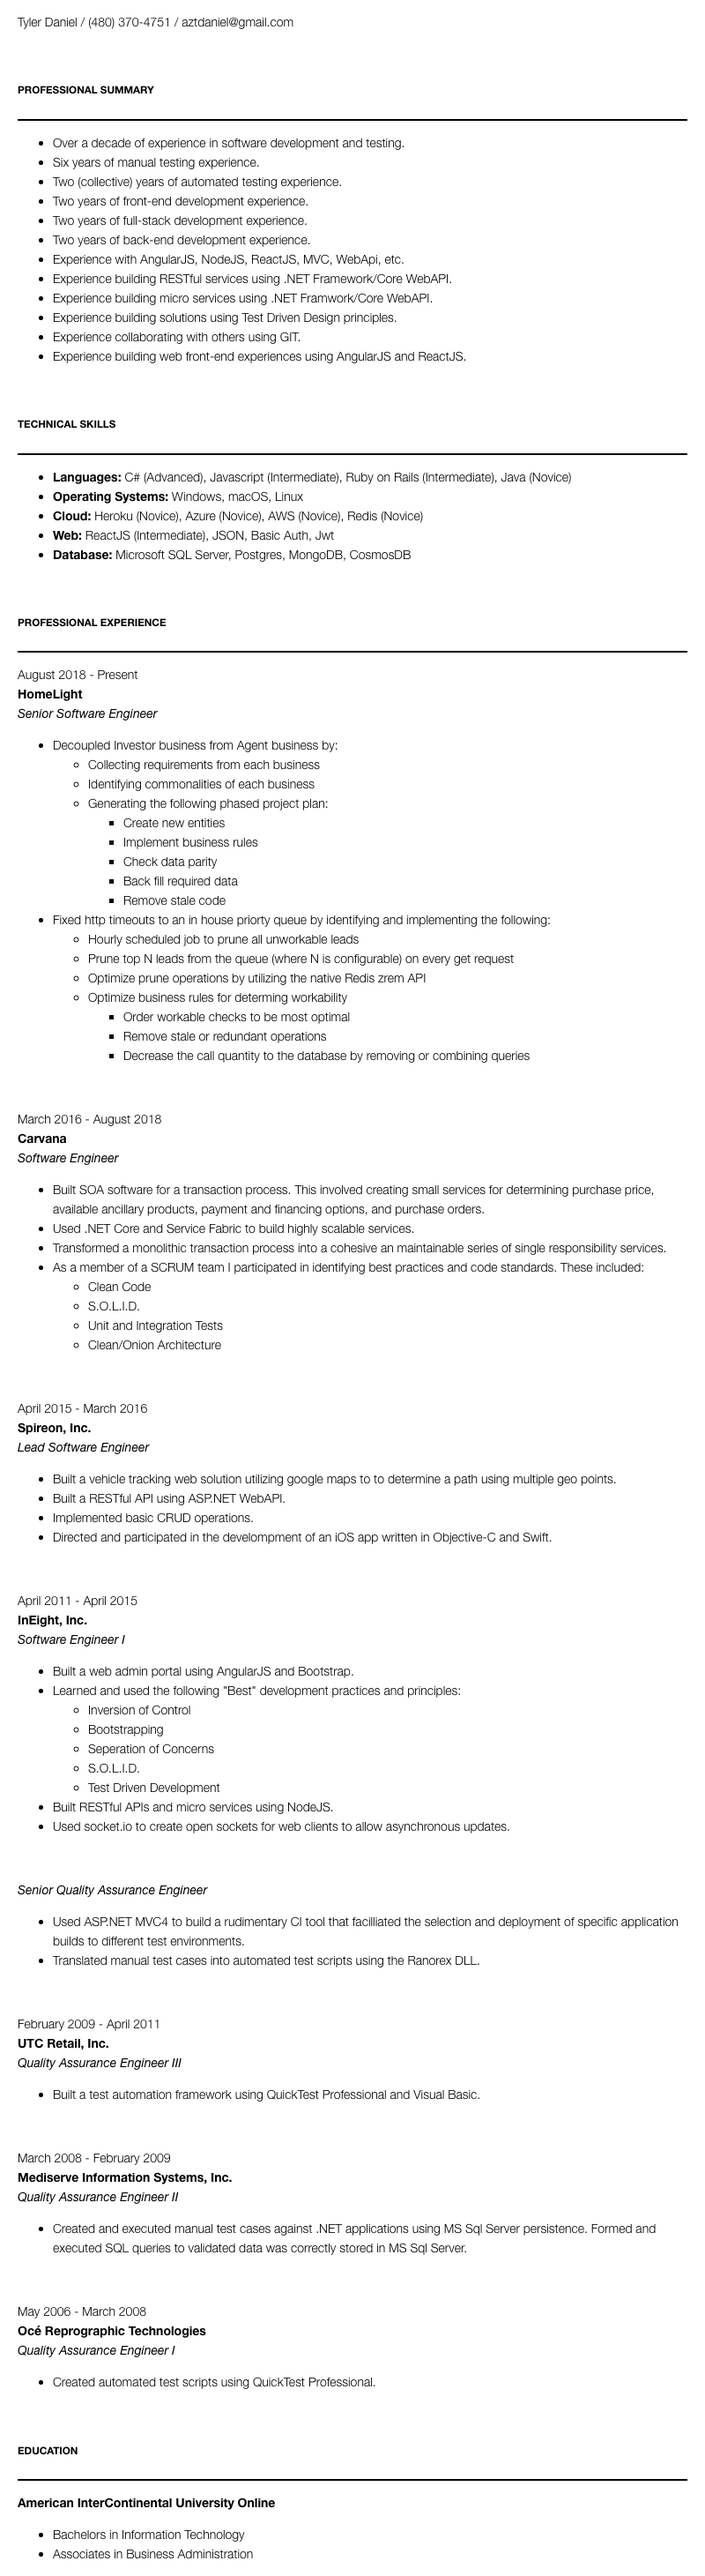
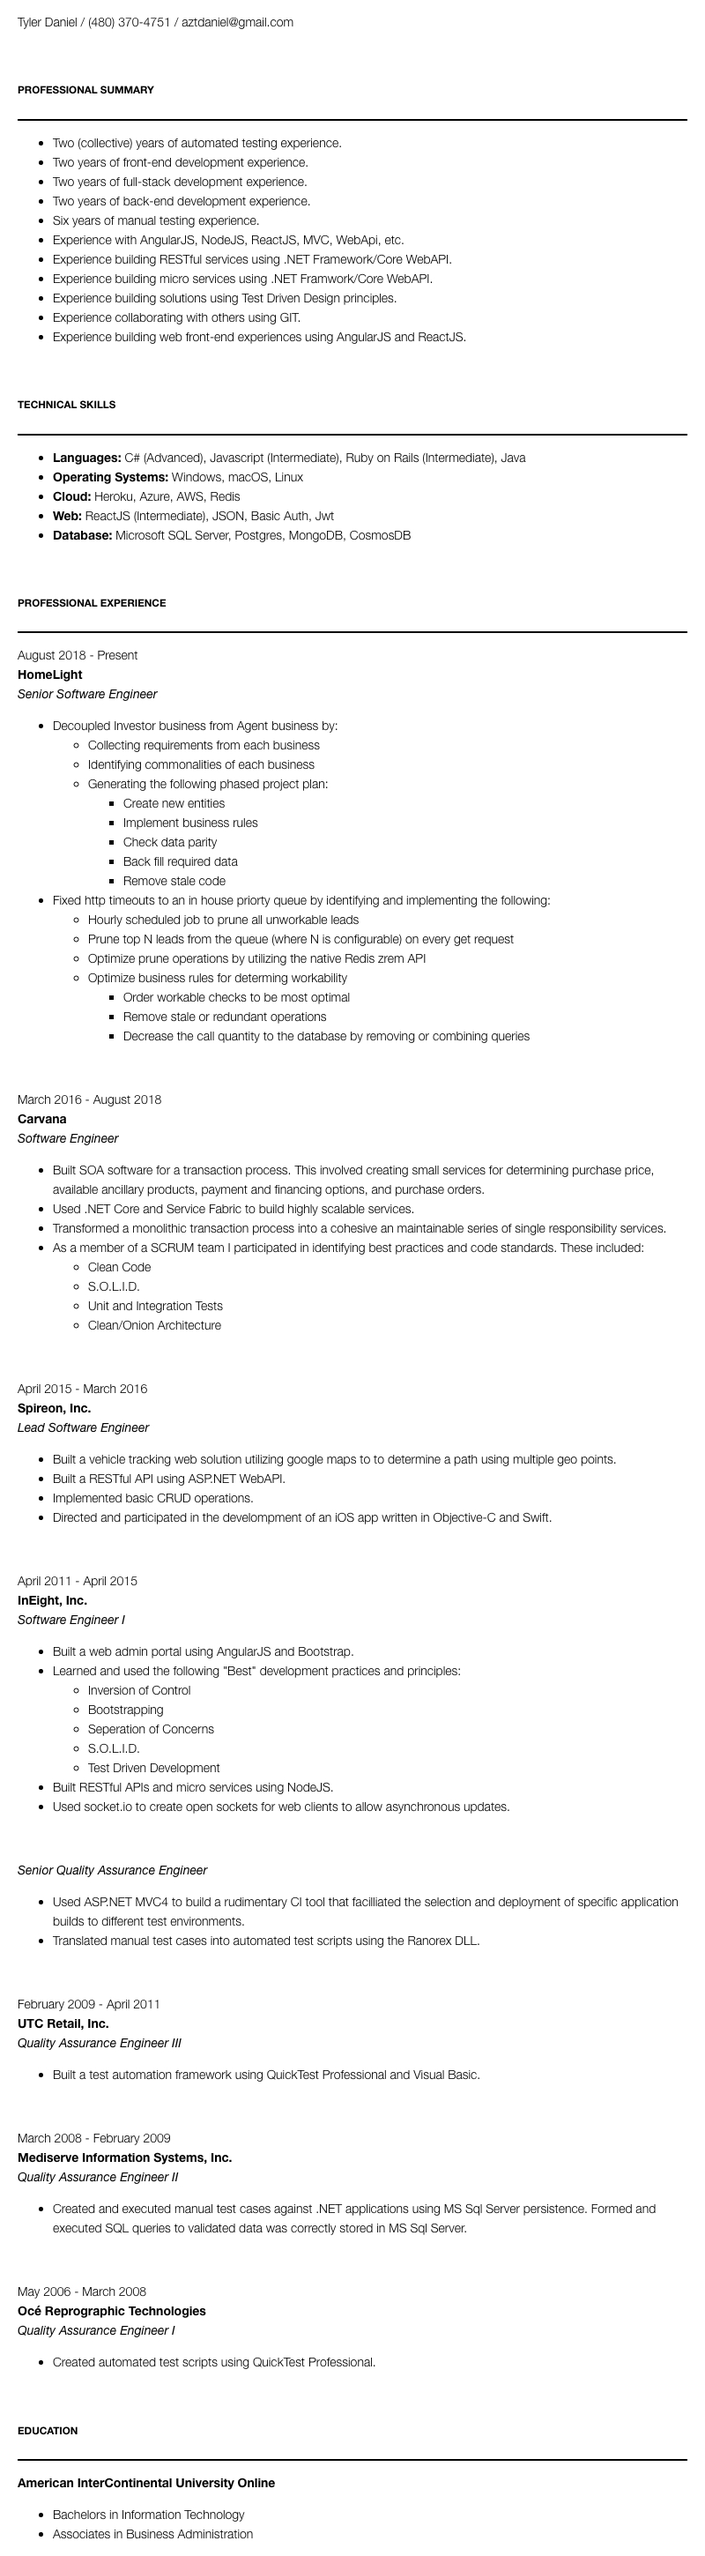
v4

diff --git a/resume.html b/resume.html
@@ -390,12 +390,11 @@ blockquote {
 <h5 id="professional-summary">PROFESSIONAL SUMMARY</h5>
 <hr>
 <ul>
-<li>Over a decade of experience in software development and testing.</li>
-<li>Six years of manual testing experience.</li>
 <li>Two (collective) years of automated testing experience.</li>
 <li>Two years of front-end development experience.</li>
 <li>Two years of full-stack development experience.</li>
 <li>Two years of back-end development experience.</li>
+<li>Six years of manual testing experience.</li>
 <li>Experience with AngularJS, NodeJS, ReactJS, MVC, WebApi, etc.</li>
 <li>Experience building RESTful services using .NET Framework/Core WebAPI.</li>
 <li>Experience building micro services using .NET Framwork/Core WebAPI.</li>
@@ -407,9 +406,9 @@ blockquote {
 <h5 id="technical-skills">TECHNICAL SKILLS</h5>
 <hr>
 <ul>
-<li><strong>Languages:</strong> C# (Advanced), Javascript (Intermediate), Ruby on Rails (Intermediate), Java (Novice)</li>
+<li><strong>Languages:</strong> C# (Advanced), Javascript (Intermediate), Ruby on Rails (Intermediate), Java</li>
 <li><strong>Operating Systems:</strong> Windows, macOS, Linux</li>
-<li><strong>Cloud:</strong> Heroku (Novice), Azure (Novice), AWS (Novice), Redis (Novice)</li>
+<li><strong>Cloud:</strong> Heroku, Azure, AWS, Redis</li>
 <li><strong>Web:</strong> ReactJS (Intermediate), JSON, Basic Auth, Jwt</li>
 <li><strong>Database:</strong> Microsoft SQL Server, Postgres, MongoDB, CosmosDB</li>
 </ul>
